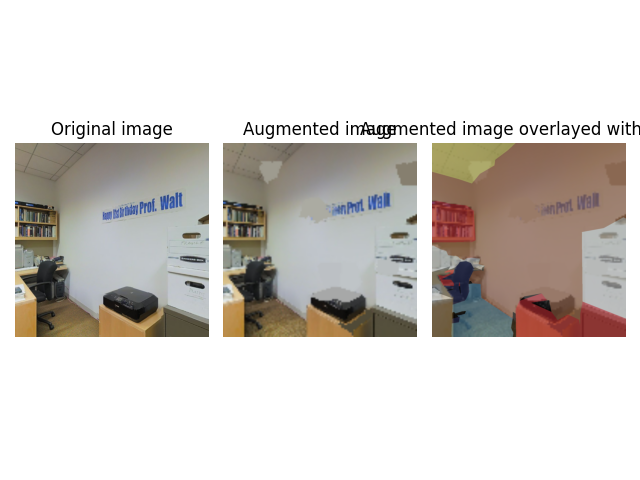
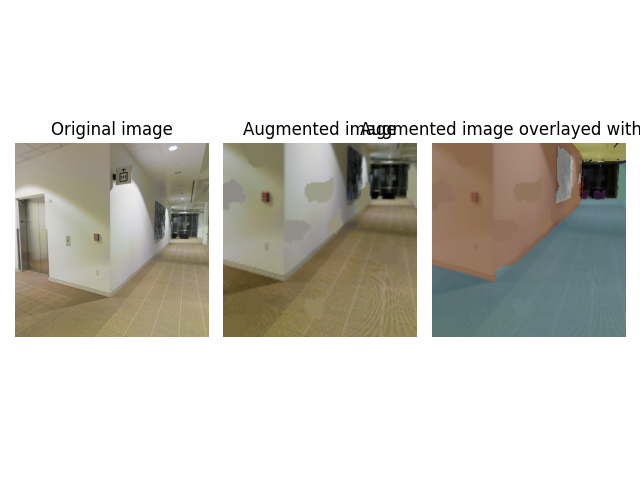
UNet model fixed.

Changed region(s): [[0.0, 0.2812, 1.0, 0.7188]]

diff --git a/Segmentation/data.py b/Segmentation/data.py
@@ -318,11 +318,15 @@ def test_dataset(args):
 
     to_tensor = transforms.ToTensor()
     data_transforms = lambda inp, targ: (to_tensor(inp), targ)
-    #Code Here
-    #vvvvvvvvv
-    dataset = ...
-    rgb, semantics = ...
-    #^^^^^^^^^
+
+    dataset = StanfordDataset(
+        args.datadir,
+        transforms=data_transforms,
+        areas=args.areas,
+    )
+    data_idx = random.randint(0, len(dataset) - 1)
+
+    rgb, semantics = dataset[data_idx]
 
     fig, axes = plt.subplots(1, 3, figsize=(6, 3))
     ax = axes[0]
@@ -339,6 +343,7 @@ def test_dataset(args):
 
     plt.tight_layout()
     plt.show()
+    plt.savefig("test_fig")
 
 
 def test_augmented_dataset(args):
@@ -377,7 +382,10 @@ def test_augmented_dataset(args):
     def data_transforms(img, mask):
         tf = A.Compose(
             [
-                #A.Sharpen(),
+                # First we resize our samples (with some random crop)
+                A.RandomCrop(768, 768),
+                A.Resize(256, 256),
+
                 A.RandomBrightnessContrast(p=0.25),
                 A.Superpixels(p_replace=0.1, always_apply=True, n_segments=100),
                 A.Normalize(0, 1),
@@ -426,7 +434,7 @@ if __name__ == "__main__":
 
     parser = argparse.ArgumentParser()
 
-    parser.add_argument("--datadir", type=pathlib.Path, required=True)http://localhost:8080	
+    parser.add_argument("--datadir", type=pathlib.Path, required=True)
     parser.add_argument(
         "--areas",
         nargs="+",
@@ -436,5 +444,5 @@ if __name__ == "__main__":
     )
     args = parser.parse_args()
 
-    # test_dataset(args)
+    test_dataset(args)
     test_augmented_dataset(args)

diff --git a/Segmentation/models.py b/Segmentation/models.py
@@ -81,7 +81,7 @@ class UNetConvBlock(nn.Module):
         )
 
         self.block2 = nn.Sequential(
-            nn.Conv2d(in_channels=cin, out_channels=cout, kernel_size=3, stride=1, padding=1,), # Padding and stride to 1 for handle the image's borders.
+            nn.Conv2d(in_channels=cout, out_channels=cout, kernel_size=3, stride=1, padding=1,), # Padding and stride to 1 for handle the image's borders.
             nn.ReLU(inplace=True),
             nn.BatchNorm2d(cout),
         )
@@ -146,7 +146,7 @@ class UNetUpConvBlock(nn.Module):
 
         self.upconv = nn.Sequential(
             nn.Upsample(scale_factor=2),
-            nn.Conv2d(int(cin/2), int(cin/2), kernel_size=3, stride=1, padding=1),
+            nn.Conv2d(cin, int(cin/2), kernel_size=3, stride=1, padding=1),
             nn.ReLU(inplace=True),
             nn.BatchNorm2d( int(cin/2) ),
         )
@@ -230,11 +230,11 @@ def build_model(model_name, num_classes):
 
 
 def main():
-    m = build_model("UNet", (256, 256), 14)
-    # vvvvvvvvv
-    # CODE HERE
-    pass
-    # ^^^^^^^^^
+
+    mname = ["UNet"]
+    for n in mname:
+        m = build_model(n, 10)
+        print(deepcs.display.torch_summarize(m, (2, 3, 256, 256)))
 
 
 if __name__ == "__main__":
